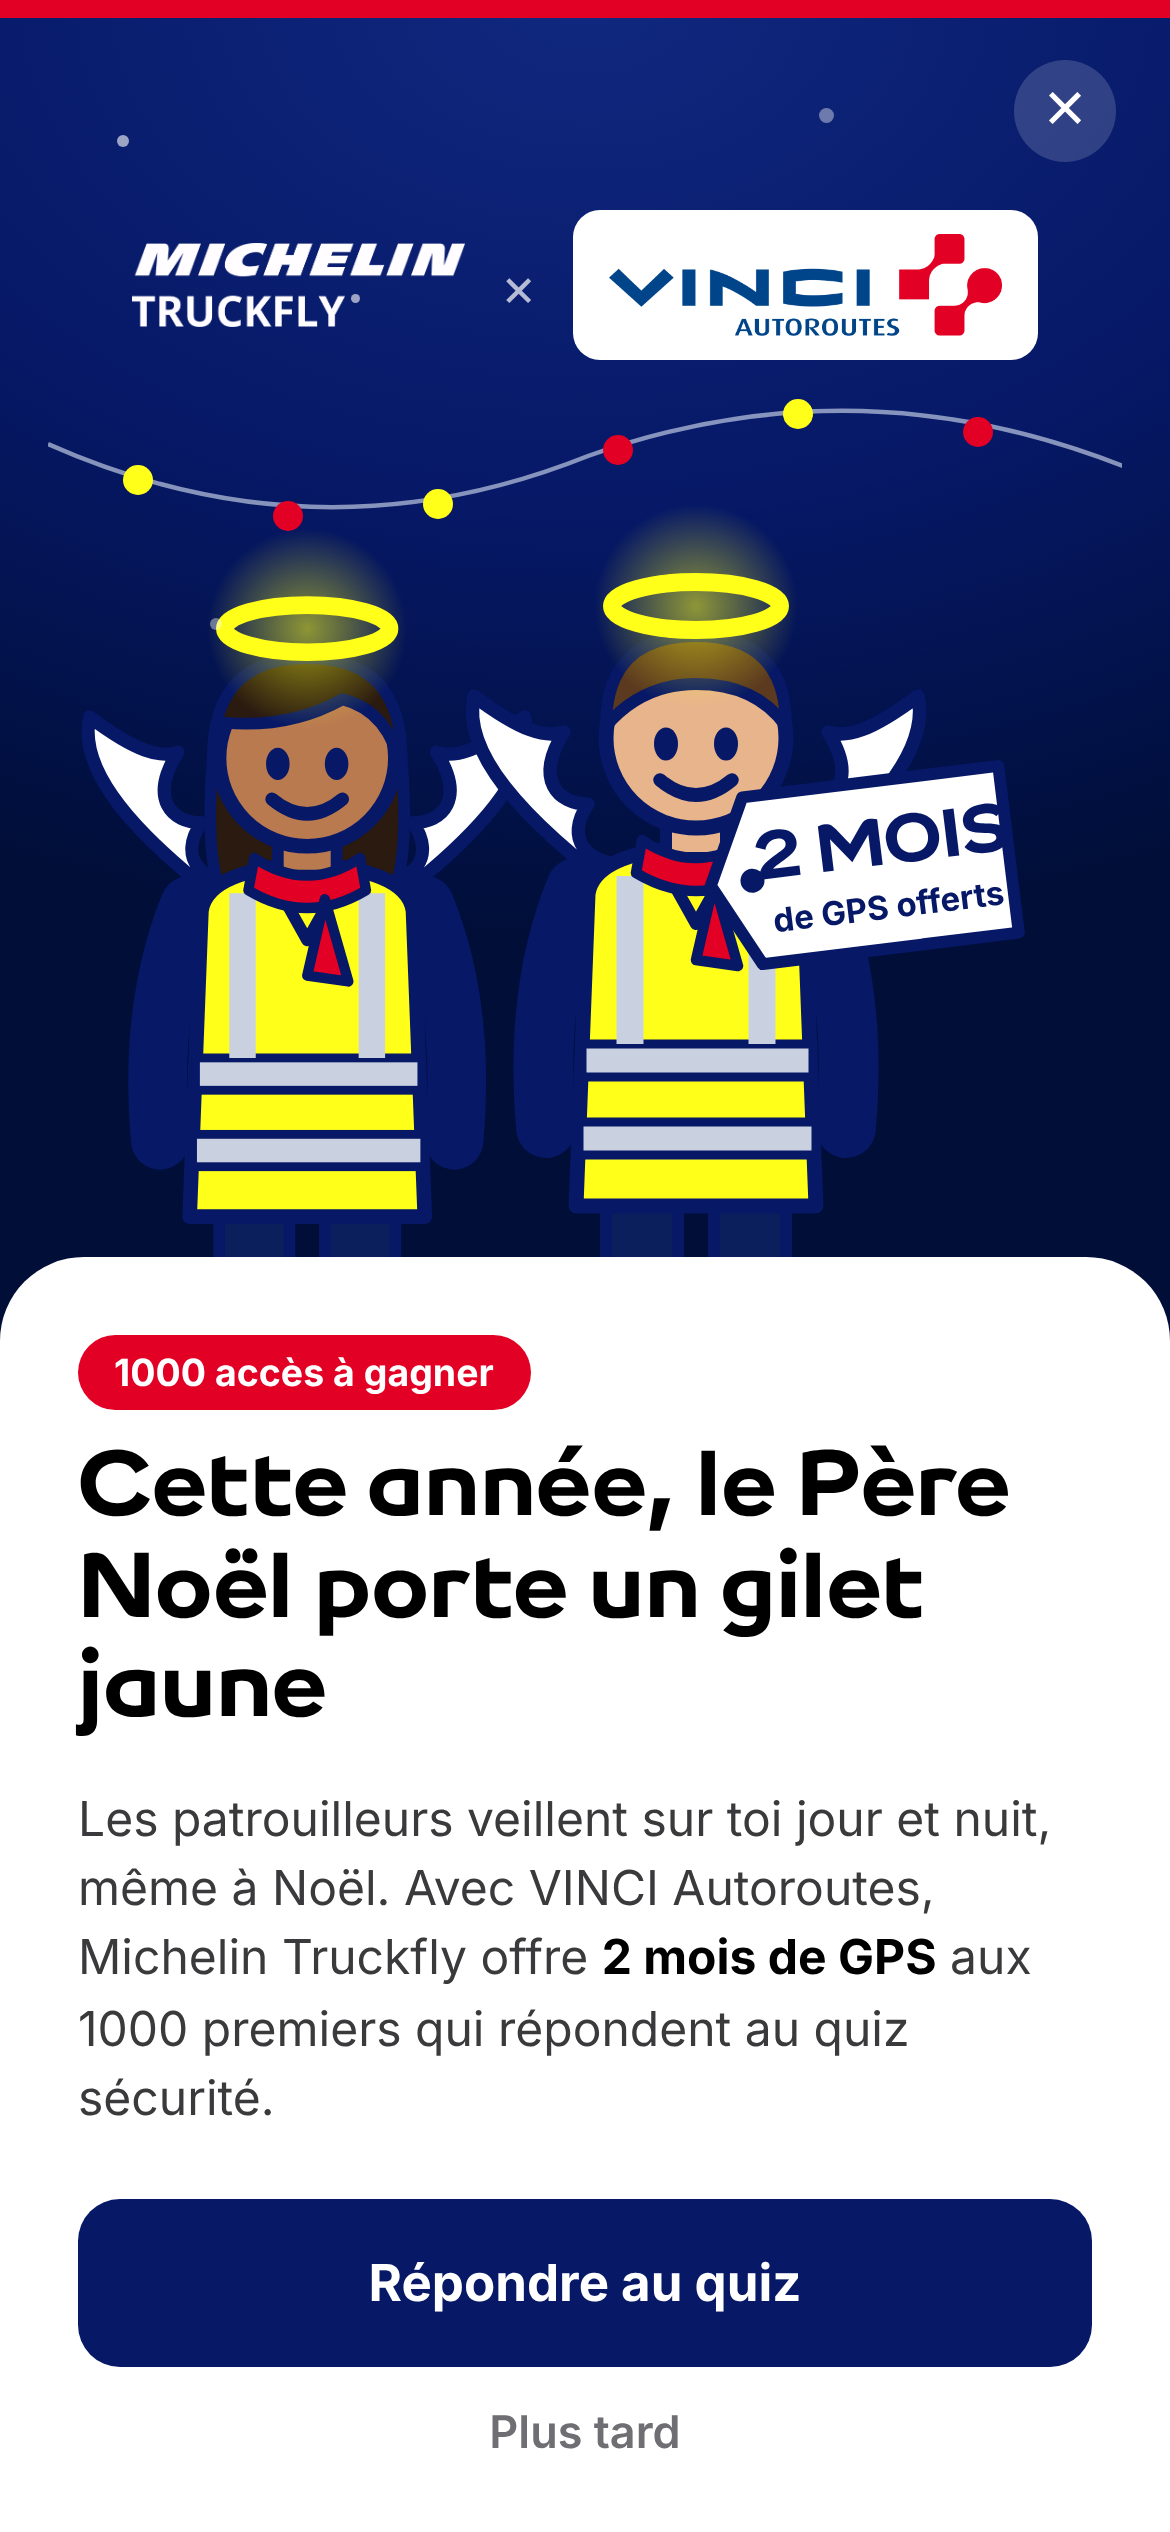
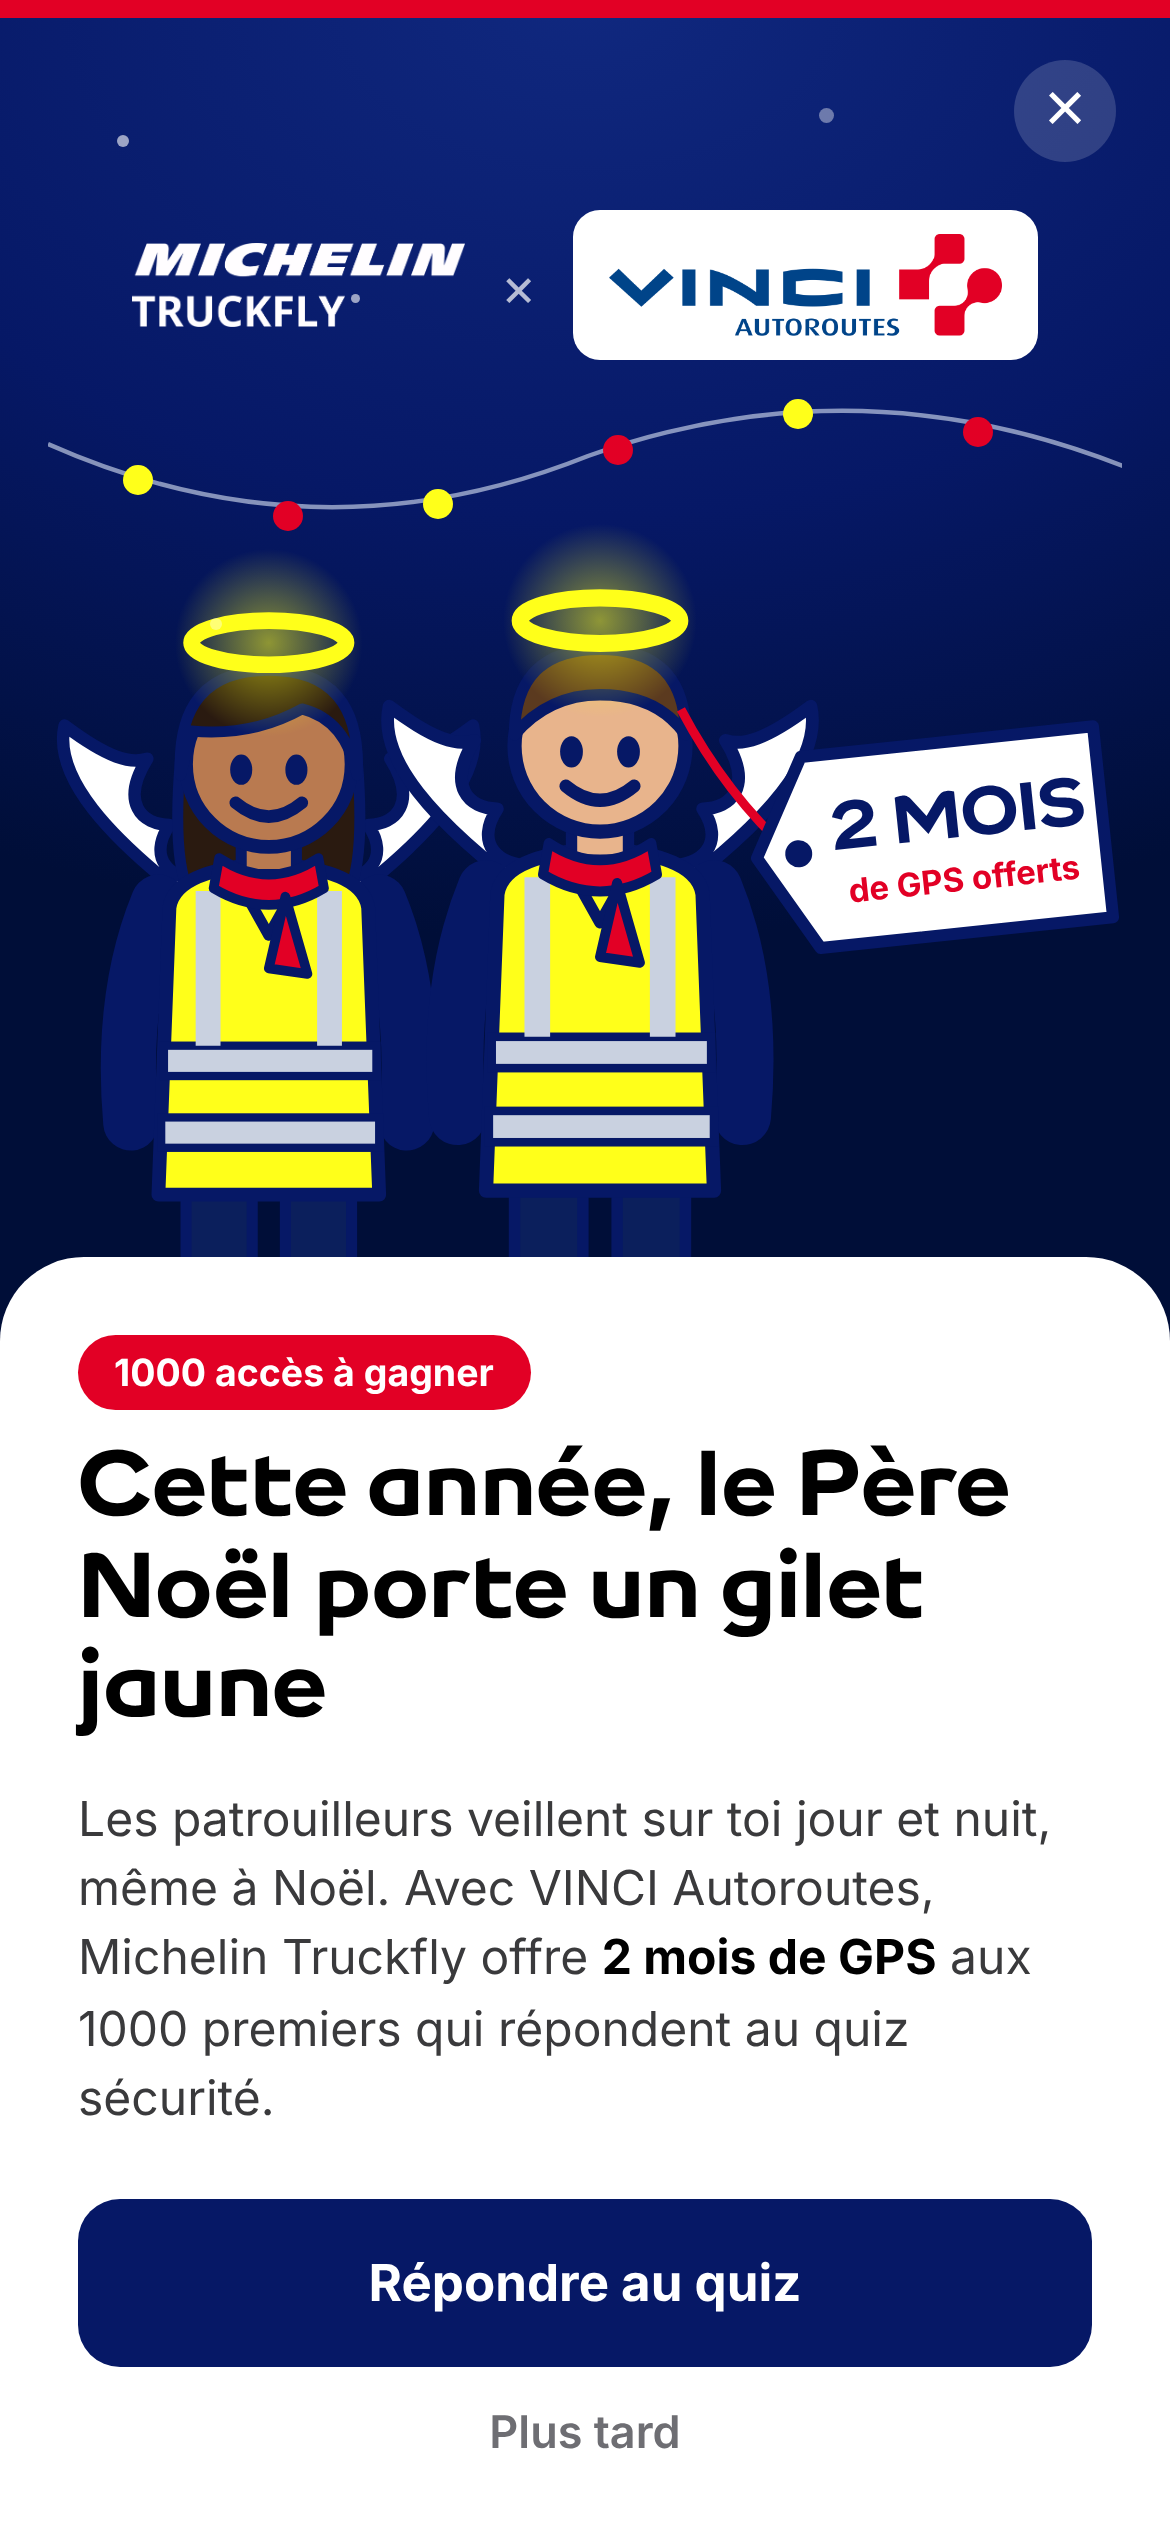
Interstitiel VINCI : nouvelle proposition C (panneau « merci à nos anges gardiens ») et étiquette de la B entière
Claude-Session: https://claude.ai/code/session_01Dxf6WJt6yEW2EorFoXnocV

Changed region(s): [[0.0308, 0.1872, 0.9538, 0.4992]]

diff --git a/interstitiels/vinci-fetes/index.html b/interstitiels/vinci-fetes/index.html
@@ -86,7 +86,13 @@ b.fort { color: #000; }
 .q-opt .rond { width: 20px; height: 20px; border-radius: 50%; border: 2px solid #b5bdcf; flex: none; }
 .q-opt.choisi { border-color: var(--bleu); background: #f1f5fd; font-weight: 600; }
 .q-opt.choisi .rond { border: 6px solid var(--bleu); }
-.anges-c { width: 260px; height: 130px; margin-bottom: -50px; z-index: 1; }
+/* C : fond clair */
+.clair { background: radial-gradient(120% 60% at 50% 15%, #ffffff 0%, #eef2f9 60%, #dce6f7 100%); }
+.clair .neige i { background: #9fb3dc; }
+.clair .fermer { background: rgba(6, 24, 102, 0.1); color: var(--bleu); }
+.clair .x { color: var(--bleu); }
+.clair .logo-vinci { box-shadow: 0 2px 10px rgba(6, 24, 102, 0.12); }
+.bleu-txt { color: #1e4fd8; }
 
 .entre { animation: entre 0.55s cubic-bezier(0.2, 0.9, 0.3, 1.2) both; animation-delay: calc(var(--d, 0s) + 0.25s); }
 @keyframes entre { from { opacity: 0; transform: translateY(14px) scale(0.96); } }
@@ -214,13 +220,14 @@ b.fort { color: #000; }
     <div class="duo entre" style="--d:0s"><img src="assets/truckfly-blanc-rogne.png" alt="Michelin Truckfly" /><span class="x">×</span><span class="logo-vinci"><img src="assets/vinci-autoroutes.png" alt="VINCI Autoroutes" /></span></div>
     <svg class="entre" style="--d:.2s" width="358" height="290" viewBox="0 0 358 290" aria-hidden="true">
       <use href="#guirlande" />
-      <g class="flotte"><use href="#ange-f" transform="translate(8 58) scale(.98)" /></g>
-      <g class="flotte" style="animation-delay:-1.6s"><use href="#ange-h" transform="translate(136 50) scale(1)" /></g>
-      <g transform="translate(-10 84) rotate(-7 290 70)">
-        <path d="M244 46 L330 46 L330 102 L244 102 L230 74 Z" fill="#fff" stroke="#061866" stroke-width="4" stroke-linejoin="round" />
-        <circle cx="244" cy="74" r="4" fill="#061866" />
-        <text x="288" y="74" text-anchor="middle" font-family="Bib" font-weight="700" font-size="22" fill="#061866">2 MOIS</text>
-        <text x="288" y="92" text-anchor="middle" font-family="Inter" font-weight="700" font-size="11" fill="#061866">de GPS offerts</text>
+      <g class="flotte"><use href="#ange-f" transform="translate(0 64) scale(.92)" /></g>
+      <g class="flotte" style="animation-delay:-1.6s"><use href="#ange-h" transform="translate(108 56) scale(.95)" /></g>
+      <g transform="translate(234 118) rotate(-6 60 32)">
+        <path d="M14 32 Q-6 10 -18 -20" fill="none" stroke="#e20025" stroke-width="3" />
+        <path d="M20 0 L118 0 L118 64 L20 64 L2 32 Z" fill="#fff" stroke="#061866" stroke-width="4" stroke-linejoin="round" />
+        <circle cx="16" cy="32" r="4.5" fill="#061866" />
+        <text x="70" y="32" text-anchor="middle" font-family="Bib" font-weight="700" font-size="22" fill="#061866">2 MOIS</text>
+        <text x="70" y="50" text-anchor="middle" font-family="Inter" font-weight="700" font-size="11" fill="#e20025">de GPS offerts</text>
       </g>
     </svg>
   </div>
@@ -233,35 +240,37 @@ b.fort { color: #000; }
   </div>
 </section></div>
 
-<!-- C · Aperçu du quiz, les anges au-dessus -->
-<div><div class="cartel">C · aperçu du quiz</div>
-<section class="ecran nuit" id="vc" data-nom="apercu-quiz">
+<!-- C · Fond clair : les anges gardiens portent un panneau d'autoroute -->
+<div><div class="cartel">C · « merci à nos anges gardiens »</div>
+<section class="ecran clair" id="vc" data-nom="panneau-merci">
   <div class="neige">
-    <i style="left:12%;top:5%;--d:.5s"></i><i style="left:44%;top:12%;--t:3px;--d:2.5s"></i><i style="left:74%;top:6%;--t:5px;--o:.4;--d:1.2s"></i>
-    <i style="left:92%;top:20%;--t:3px;--d:3.8s"></i><i style="left:6%;top:28%;--t:3px;--o:.5;--d:4.6s"></i>
+    <i style="left:12%;top:5%;--d:.5s"></i><i style="left:44%;top:12%;--t:3px;--d:2.5s"></i><i style="left:74%;top:6%;--t:5px;--d:1.2s"></i>
+    <i style="left:92%;top:20%;--t:3px;--d:3.8s"></i><i style="left:6%;top:28%;--t:4px;--d:4.6s"></i><i style="left:30%;top:36%;--t:3px;--d:2s"></i>
   </div>
   <div class="ruban"></div>
   <button class="fermer" aria-label="Fermer">×</button>
-  <div class="v-plein" style="gap:6px; padding-top:64px">
-    <div class="duo entre" style="--d:0s"><img src="assets/truckfly-blanc-rogne.png" alt="Michelin Truckfly" /><span class="x">×</span><span class="logo-vinci"><img src="assets/vinci-autoroutes.png" alt="VINCI Autoroutes" /></span></div>
-    <svg class="anges-c entre" style="--d:.15s" viewBox="0 0 300 150" aria-hidden="true">
-      <g class="flotte"><use href="#ange-h" transform="translate(40 4) scale(.82)" /></g>
-      <g class="flotte" style="animation-delay:-1.6s"><use href="#ange-f" transform="translate(130 10) scale(.78)" /></g>
+  <div class="v-plein">
+    <div class="duo entre" style="--d:0s"><img src="assets/truckfly-couleur-rogne.png" alt="Michelin Truckfly" /><span class="x">×</span><span class="logo-vinci"><img src="assets/vinci-autoroutes.png" alt="VINCI Autoroutes" /></span></div>
+    <svg class="scene entre" style="--d:.2s" viewBox="0 0 360 330" aria-hidden="true">
+      <use href="#guirlande" y="2" />
+      <!-- panneau d'autoroute -->
+      <path d="M140 250 V318 M220 250 V318" stroke="#8e9bb8" stroke-width="7" />
+      <rect x="88" y="96" width="184" height="160" rx="16" fill="#1e4fd8" stroke="#fff" stroke-width="6" />
+      <rect x="88" y="96" width="184" height="160" rx="16" fill="none" stroke="#061866" stroke-width="3" />
+      <text x="180" y="150" text-anchor="middle" font-family="Inter" font-weight="700" font-size="15" fill="#fff">MERCI À NOS</text>
+      <text x="180" y="176" text-anchor="middle" font-family="Inter" font-weight="700" font-size="15" fill="#fff">ANGES GARDIENS</text>
+      <rect x="104" y="196" width="152" height="38" rx="8" fill="#e20025" />
+      <text x="180" y="221" text-anchor="middle" font-family="Bib" font-weight="700" font-size="17" fill="#fff">JOYEUSES FÊTES</text>
+      <!-- les anges de part et d'autre du panneau -->
+      <g class="flotte"><use href="#ange-h" transform="translate(-6 150) scale(.6)" /></g>
+      <g class="flotte" style="animation-delay:-1.6s"><use href="#ange-f" transform="translate(268 154) scale(.57)" /></g>
     </svg>
-    <div class="quiz entre" style="--d:.3s">
-      <div class="q-haut"><span>Quiz sécurité</span><span>1 / 2</span></div>
-      <div class="q-barre"><b></b></div>
-      <p class="q-titre">Un véhicule de patrouille est arrêté sur la bande d'arrêt d'urgence, gyrophares allumés. Que fais-tu&nbsp;?</p>
-      <div class="q-opt"><span class="rond"></span>Je garde ma voie et ma vitesse</div>
-      <div class="q-opt choisi"><span class="rond"></span>Je change de voie, ou je ralentis fortement</div>
-      <div class="q-opt"><span class="rond"></span>Je klaxonne pour signaler ma présence</div>
-    </div>
   </div>
   <div class="bas">
-    <span class="badge entre" style="--d:.4s">Réservé aux 1000 premiers</span>
-    <h1 class="entre" style="--d:.5s">Protège tes anges gardiens, gagne 2 mois de GPS</h1>
-    <p class="texte entre" style="--d:.6s">Michelin Truckfly et VINCI Autoroutes s'associent pour des fêtes en sécurité. Les 1000 premiers à répondre gagnent.</p>
-    <a class="cta jaune">Je réponds au quiz</a>
+    <span class="badge rouge entre" style="--d:.4s">Réservé aux 1000 premiers</span>
+    <h1 class="entre" style="--d:.5s">Pour les fêtes, <span class="bleu-txt">2 mois de GPS</span> offerts</h1>
+    <p class="texte entre" style="--d:.6s">Michelin Truckfly et VINCI Autoroutes s'associent. Réponds à 2 questions sécurité&nbsp;: les 1000 premiers gagnent.</p>
+    <a class="cta">Je participe</a>
     <a class="plus-tard">Plus tard</a>
   </div>
 </section></div>

diff --git a/interstitiels/vinci-fetes/LISEZMOI.md b/interstitiels/vinci-fetes/LISEZMOI.md
@@ -26,7 +26,7 @@ Pour savoir d'où vient chaque réponse, ouvrir le lien avec les paramètres `?u
 |---|---|---|---|
 | A | Pleine page : les deux anges gardiens au bord de l'autoroute, fourgon de patrouille | Ils veillent sur toi, on t'offre 2 mois de GPS | Je participe au quiz |
 | B | Visuel + feuille blanche, étiquette « 2 mois » | Cette année, le Père Noël porte un gilet jaune | Répondre au quiz |
-| C | Aperçu de la question 1 du quiz | Protège tes anges gardiens, gagne 2 mois de GPS | Je réponds au quiz |
+| C | Fond clair : les deux anges de part et d'autre d'un panneau d'autoroute « Merci à nos anges gardiens · Joyeuses fêtes » | Pour les fêtes, 2 mois de GPS offerts | Je participe |
 
 ## Quiz (2 questions)
 
